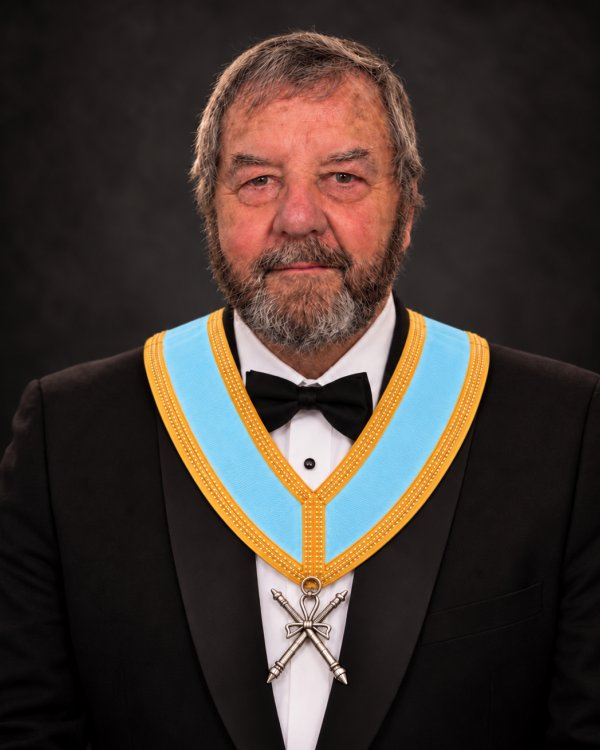
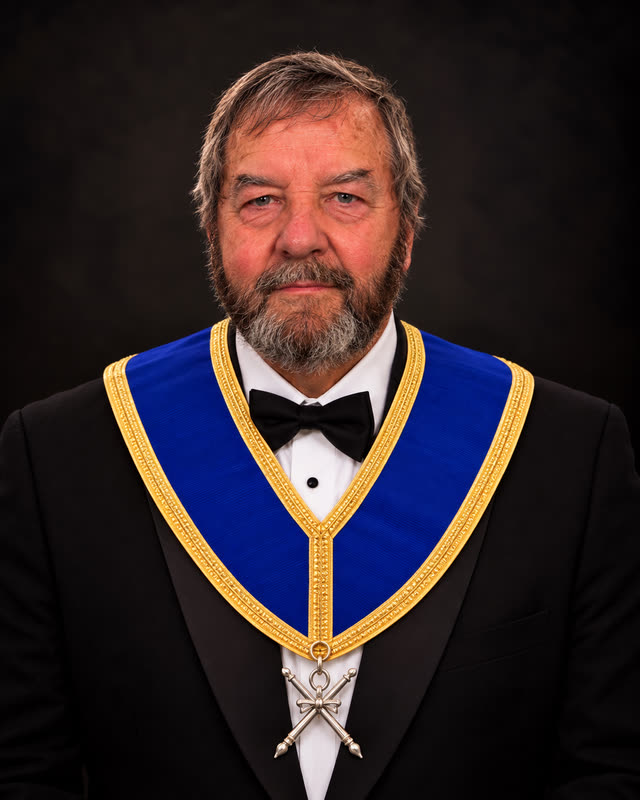
Use Steve Kipp's new portrait on both of his cards. (#38)
Replace the JPEG with a 640 by 800 version and point his Director of Ceremonies card and his Grand Lodge Honours card at that file.

diff --git a/officers.html b/officers.html
@@ -206,7 +206,7 @@
       <p>Junior Deacon</p>
     </article>
     <article class="home-officer-card">
-      <img src="assets/steve-kipp.jpg" alt="V.W. Bro. Steve Kipp" width="600" height="750" loading="lazy">
+      <img src="assets/steve-kipp.jpg" alt="V.W. Bro. Steve Kipp" width="640" height="800" loading="lazy">
       <h3>V.W. Bro. Steve Kipp</h3>
       <p>Director of Ceremonies</p>
     </article>
@@ -285,7 +285,7 @@
           </details>
         </article>
         <article class="home-officer-card">
-          <img src="assets/wesley-thompson.jpg" alt="Placeholder portrait" width="600" height="750" loading="lazy">
+          <img src="assets/steve-kipp.jpg" alt="V.W. Bro. Steve Kipp" width="640" height="800" loading="lazy">
           <h3>V.W. Bro. Steve Kipp</h3>
           <p>Grand Lodge rank, Director of Ceremonies</p>
           <details class="bio-toggle">
